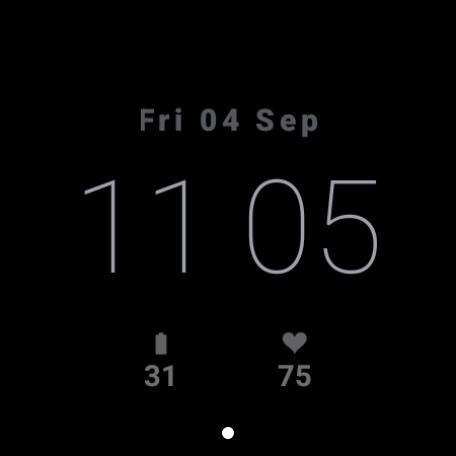
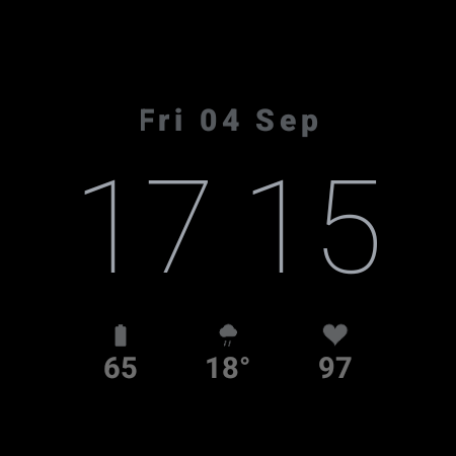
Update README and screenshots for the three-cell row
Captures are fresh from the watch and show the rain glyph live, so a
third condition is now verified on hardware alongside thunderstorm and
partly-cloudy-night.

Documents the weather and moon work: that both are native to WFF and
need no complication slot or permission, the BitmapFont-as-index trick
and its Character vs Word trap, how the phase glyphs are computed from
the terminator ellipse, and that bare symbols beat cloud-plus-detail at
26px.

diff --git a/README.md b/README.md
@@ -6,15 +6,17 @@ A greyscale digital watch face for Wear OS, built in [Watch Face Format](https:/
 |---|---|
 | <img src="docs/interactive.png" width="320" alt="Graphite watch face in interactive mode: date, 24-hour time, battery and heart rate"> | <img src="docs/ambient.png" width="320" alt="Graphite watch face in ambient mode: thinner time, arc and rule dropped, everything dimmed"> |
 
-Both are real captures from a Pixel Watch 3. The small dot at the bottom is Wear OS's own unread-notification indicator, not part of the face. Ambient drops the seconds arc, the rail and the rule, thins the time and dims the rest, measuring 4.6% lit pixels against 10.2% interactive.
+Both are real captures from a Pixel Watch 3. The small dot at the bottom is Wear OS's own unread-notification indicator, not part of the face. Ambient drops the seconds arc and the rail, thins the time and dims the rest.
 
-Black ground, a single grey ramp, and no colour anywhere. With no hue to lean on the hierarchy is carried by brightness alone, so pure white is reserved for the two accents (the seconds arc and the rule under the time) and the time itself sits one step below.
+Black ground, a single grey ramp, and no colour anywhere. With no hue to lean on the hierarchy is carried by brightness alone, so pure white is reserved for a single accent, the seconds arc, and the time itself sits one step below.
 
 - **Time** in 24-hour, with no separator: hours and minutes are two elements either side of a 26px gutter.
 - **Seconds** sweep as a white arc on a dim outer rail.
 - **No notification dot of its own.** Wear OS already draws one, low and centred; a second at 12 o'clock just doubled it.
 - **Tap the date** to open the calendar.
-- **Two complication slots**, defaulting to battery and heart rate, both swappable.
+- **Bottom row of three**: a battery slot, the current temperature, and a heart rate slot. The outer two are swappable complications.
+- **Weather glyph** follows the actual conditions, with separate day and night sets.
+- **Live moon phase** when the night sky is clear, tracking the real lunar cycle.
 - **Ambient** drops the arc, rail and rule, thins the time and dims everything else.
 
 ## Build
@@ -79,6 +81,10 @@ Notes from getting this working, so they don't have to be rediscovered.
 - **`tintColor` multiplies, it does not replace.** A white source multiplies cleanly to whatever grey you name, but Google's heart-rate complication icon is already red, so tinting it grey lands on a dark red (measured 116,40,45 on the watch) with no way to neutralise it. That is why the right slot always draws its own white `ic_heart.png` instead of the provider's icon. The battery icon in the left slot is white at source, so the provider's own image tints correctly.
 - **The `[HEART_RATE]` data source reads 0 on the emulator**, with or without `BODY_SENSORS` granted, even while logcat shows `DWF:WearHealthProvider` receiving samples, and `adb emu sensor set heart-rate 72` does not change that. The `HEART_RATE` complication provider does return live values, which is why heart rate goes through a slot here.
 - **`res/raw/watchface.xml` must stay plain text** in the APK, since the runtime reads it with `openRawResource()`. `aapt2` leaves `raw/` alone, and `build.sh` asserts it.
+- **Weather and moon phase are native to WFF, no complication slot needed.** `[WEATHER.TEMPERATURE]`, `[WEATHER.CONDITION]` and `[MOON_PHASE_TYPE]` come straight from the runtime with no manifest permission. Guard weather with `[WEATHER.IS_AVAILABLE]`: it genuinely reads false for a while after install, until the watch's weather source first fetches, and without the guard you get a bare `0`.
+- **A BitmapFont turns an enum into an icon lookup.** `[WEATHER.CONDITION]` is 0-15 and `[MOON_PHASE_TYPE]` is 0-7, so declaring a `<BitmapFont>` whose character names are those numbers lets the value index the glyph directly, instead of a sixteen-branch `Condition` chain. **Names 0-9 must be `<Character>` but 10-15 are two characters each and must be `<Word>`** - get that wrong and those conditions silently render nothing.
+- **Moon phases are computed, not drawn.** The terminator of a lit sphere projects to an ellipse, so the boundary at height y sits at `x = k*sqrt(1-y^2)` with `k = 1-2*illuminated`. That yields new through full continuously and mirrors correctly for waning. Google's eight `MOON_PHASE_TYPE` bands are coarse though: a 46%-lit moon still reports Morning Crescent. `[MOON_PHASE_POSITION]` gives 0-28 days if you want finer fidelity.
+- **Bare symbols beat cloud-plus-detail at 26px.** Snow as a flake and thunderstorm as a bolt read instantly; the same conditions drawn as a cloud with strokes or a small bolt beneath mushed together. Check glyph ink boxes against each other, since a shape can be nominally 26px and still render 18px of actual ink.
 - **`cmd alarm set-timezone <tz>` shifts the clock without root**, which is the way to test time-dependent rendering on a production Wear image where `adb root` is refused. Verifying 24-hour output at 09:00 is impossible because both formats render `09`; pointing the emulator at `Europe/London` made it 16:09 and settled it in one shot.
 - **Shell-injected notifications do not raise `UNREAD_NOTIFICATION_COUNT`.** `cmd notification post` creates records that `dumpsys notification` lists but the count still reads 0, a condition on it cannot be verified on the emulator. It does fire on the watch, confirmed on hardware before the dot was removed as redundant.
 
@@ -102,8 +108,7 @@ Positions are on the 450x450 virtual canvas, which the runtime scales to the dev
 |---|---------|
 | 98 | date, 30px BLACK, taps through to the calendar |
 | 155 | time, 128px, in a 140px band centred on 225 |
-| 304 | rule |
-| 326 | complication slots, 118x62, at x=100 and x=232 |
+| 318 | bottom row, three 96x62 cells at x=71, x=177 and x=283 |
 
 ## License
 
